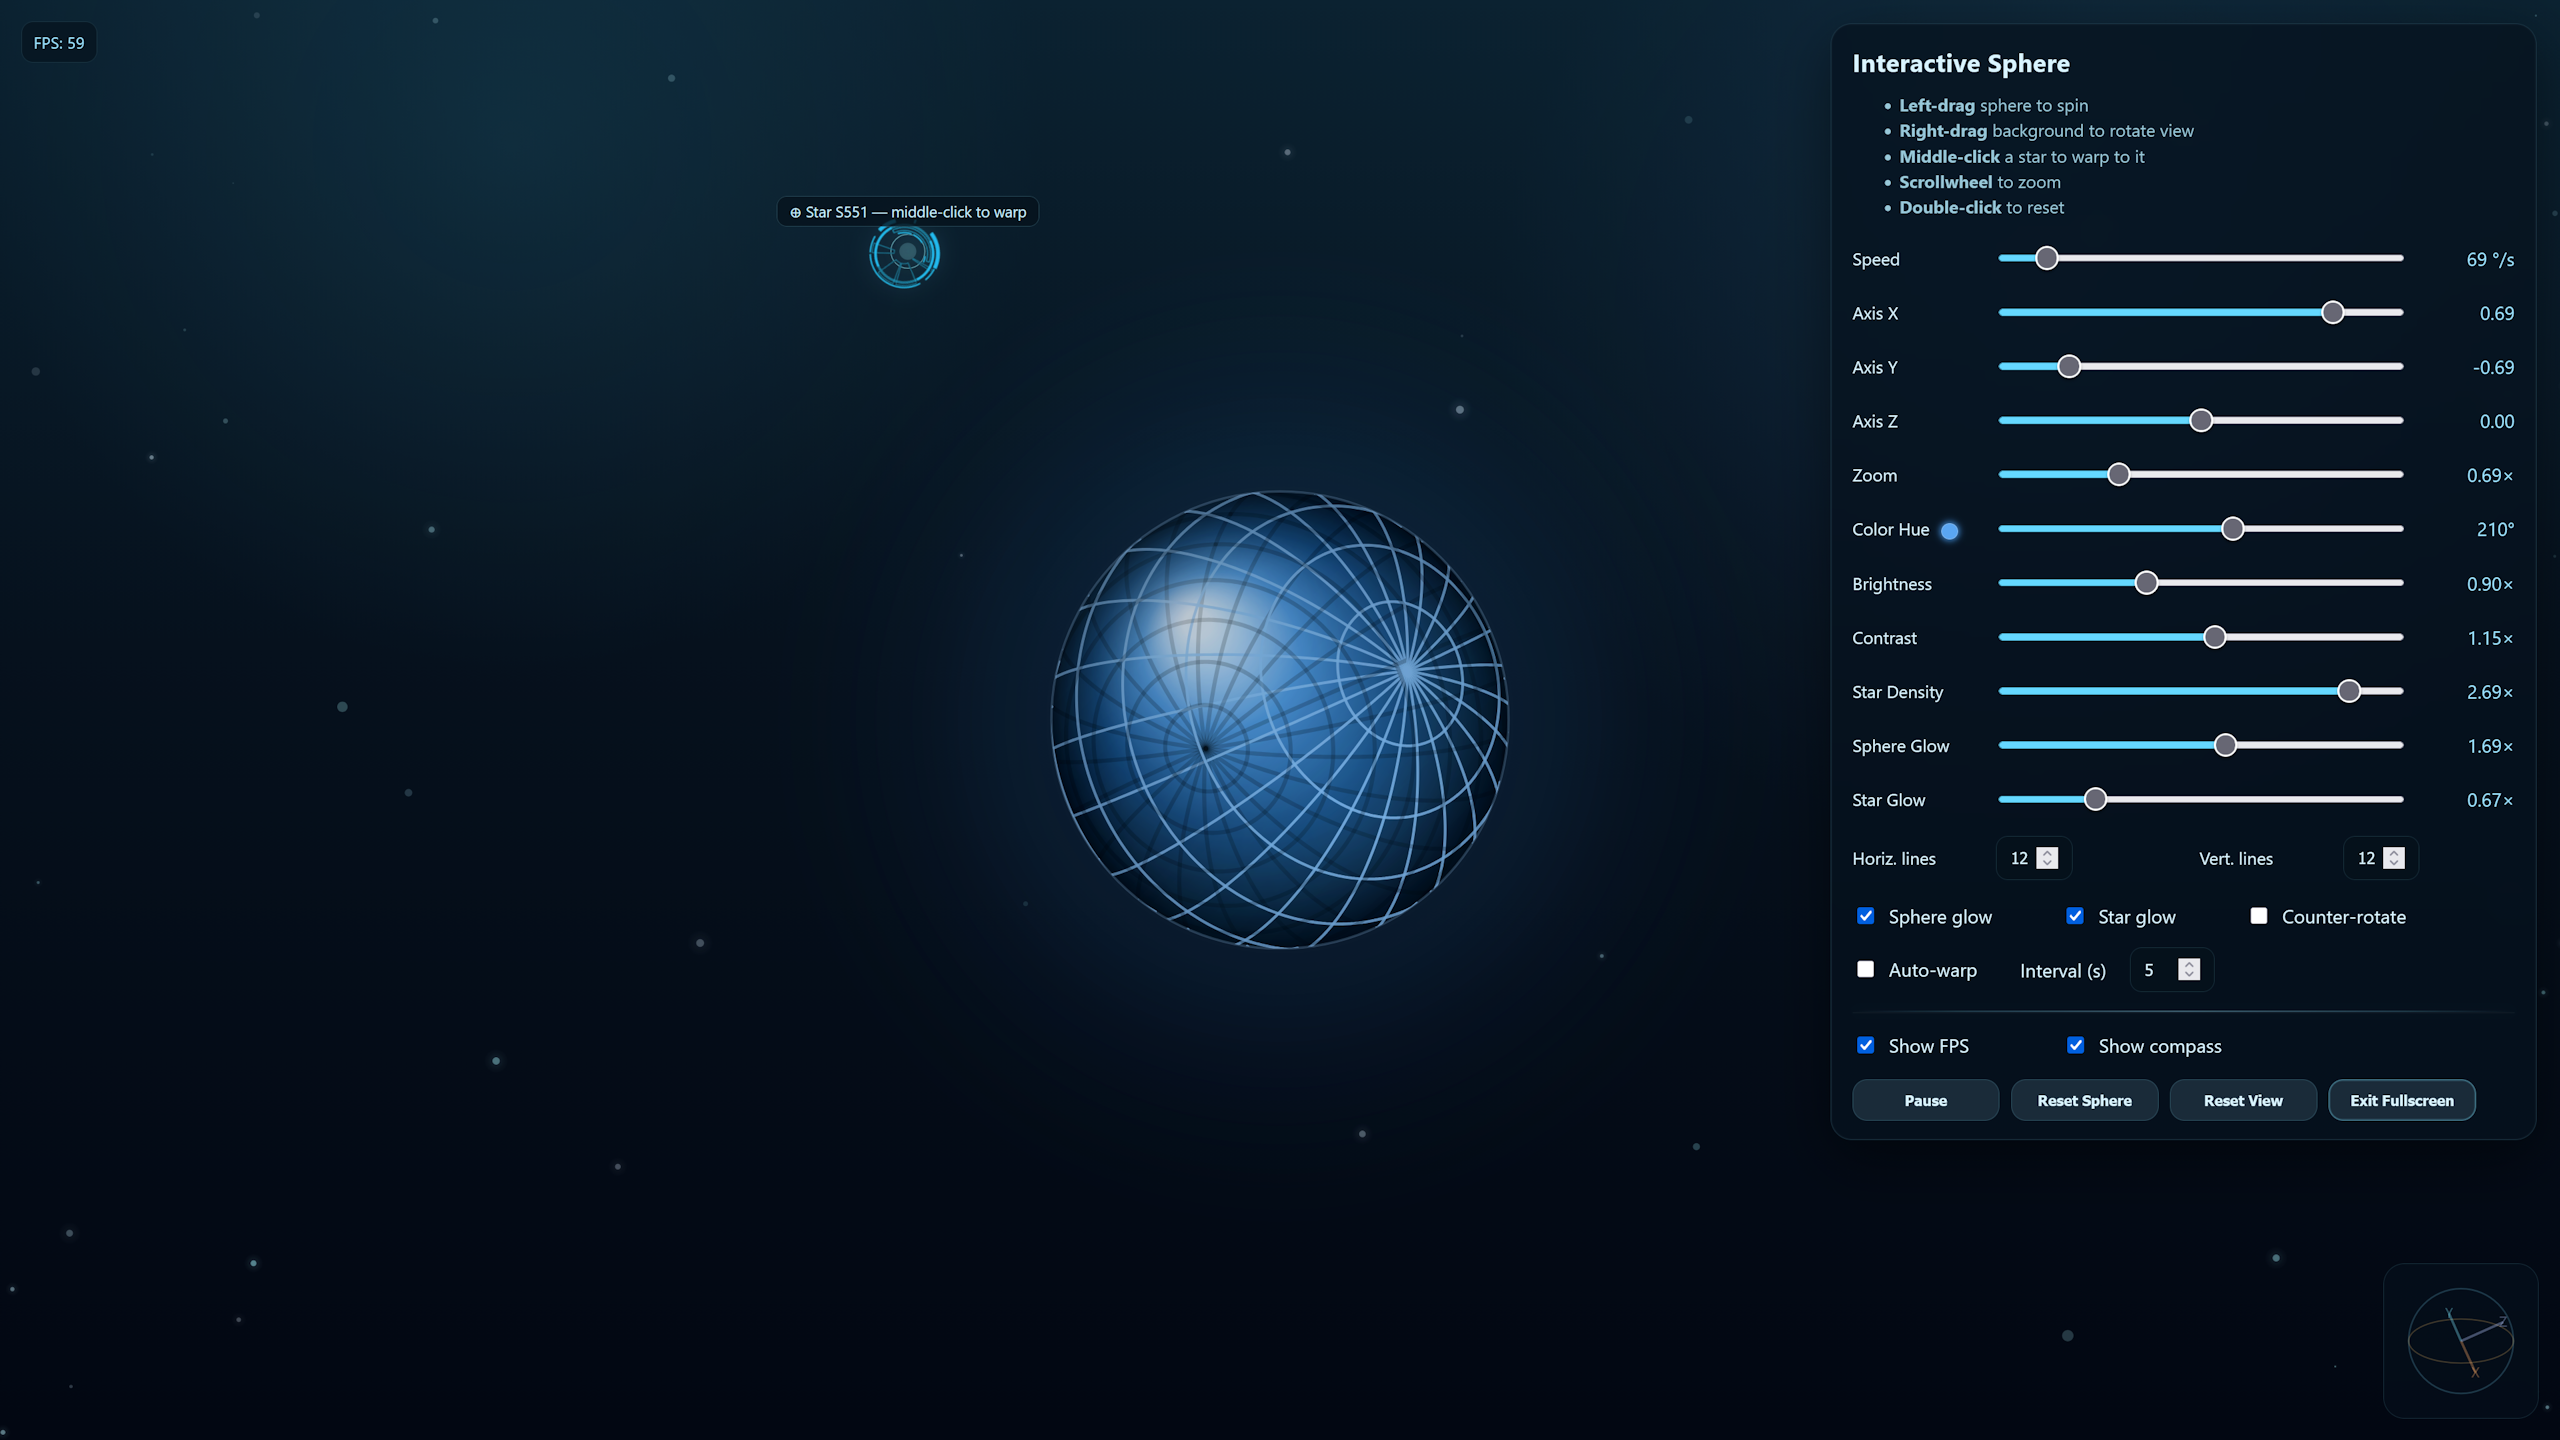
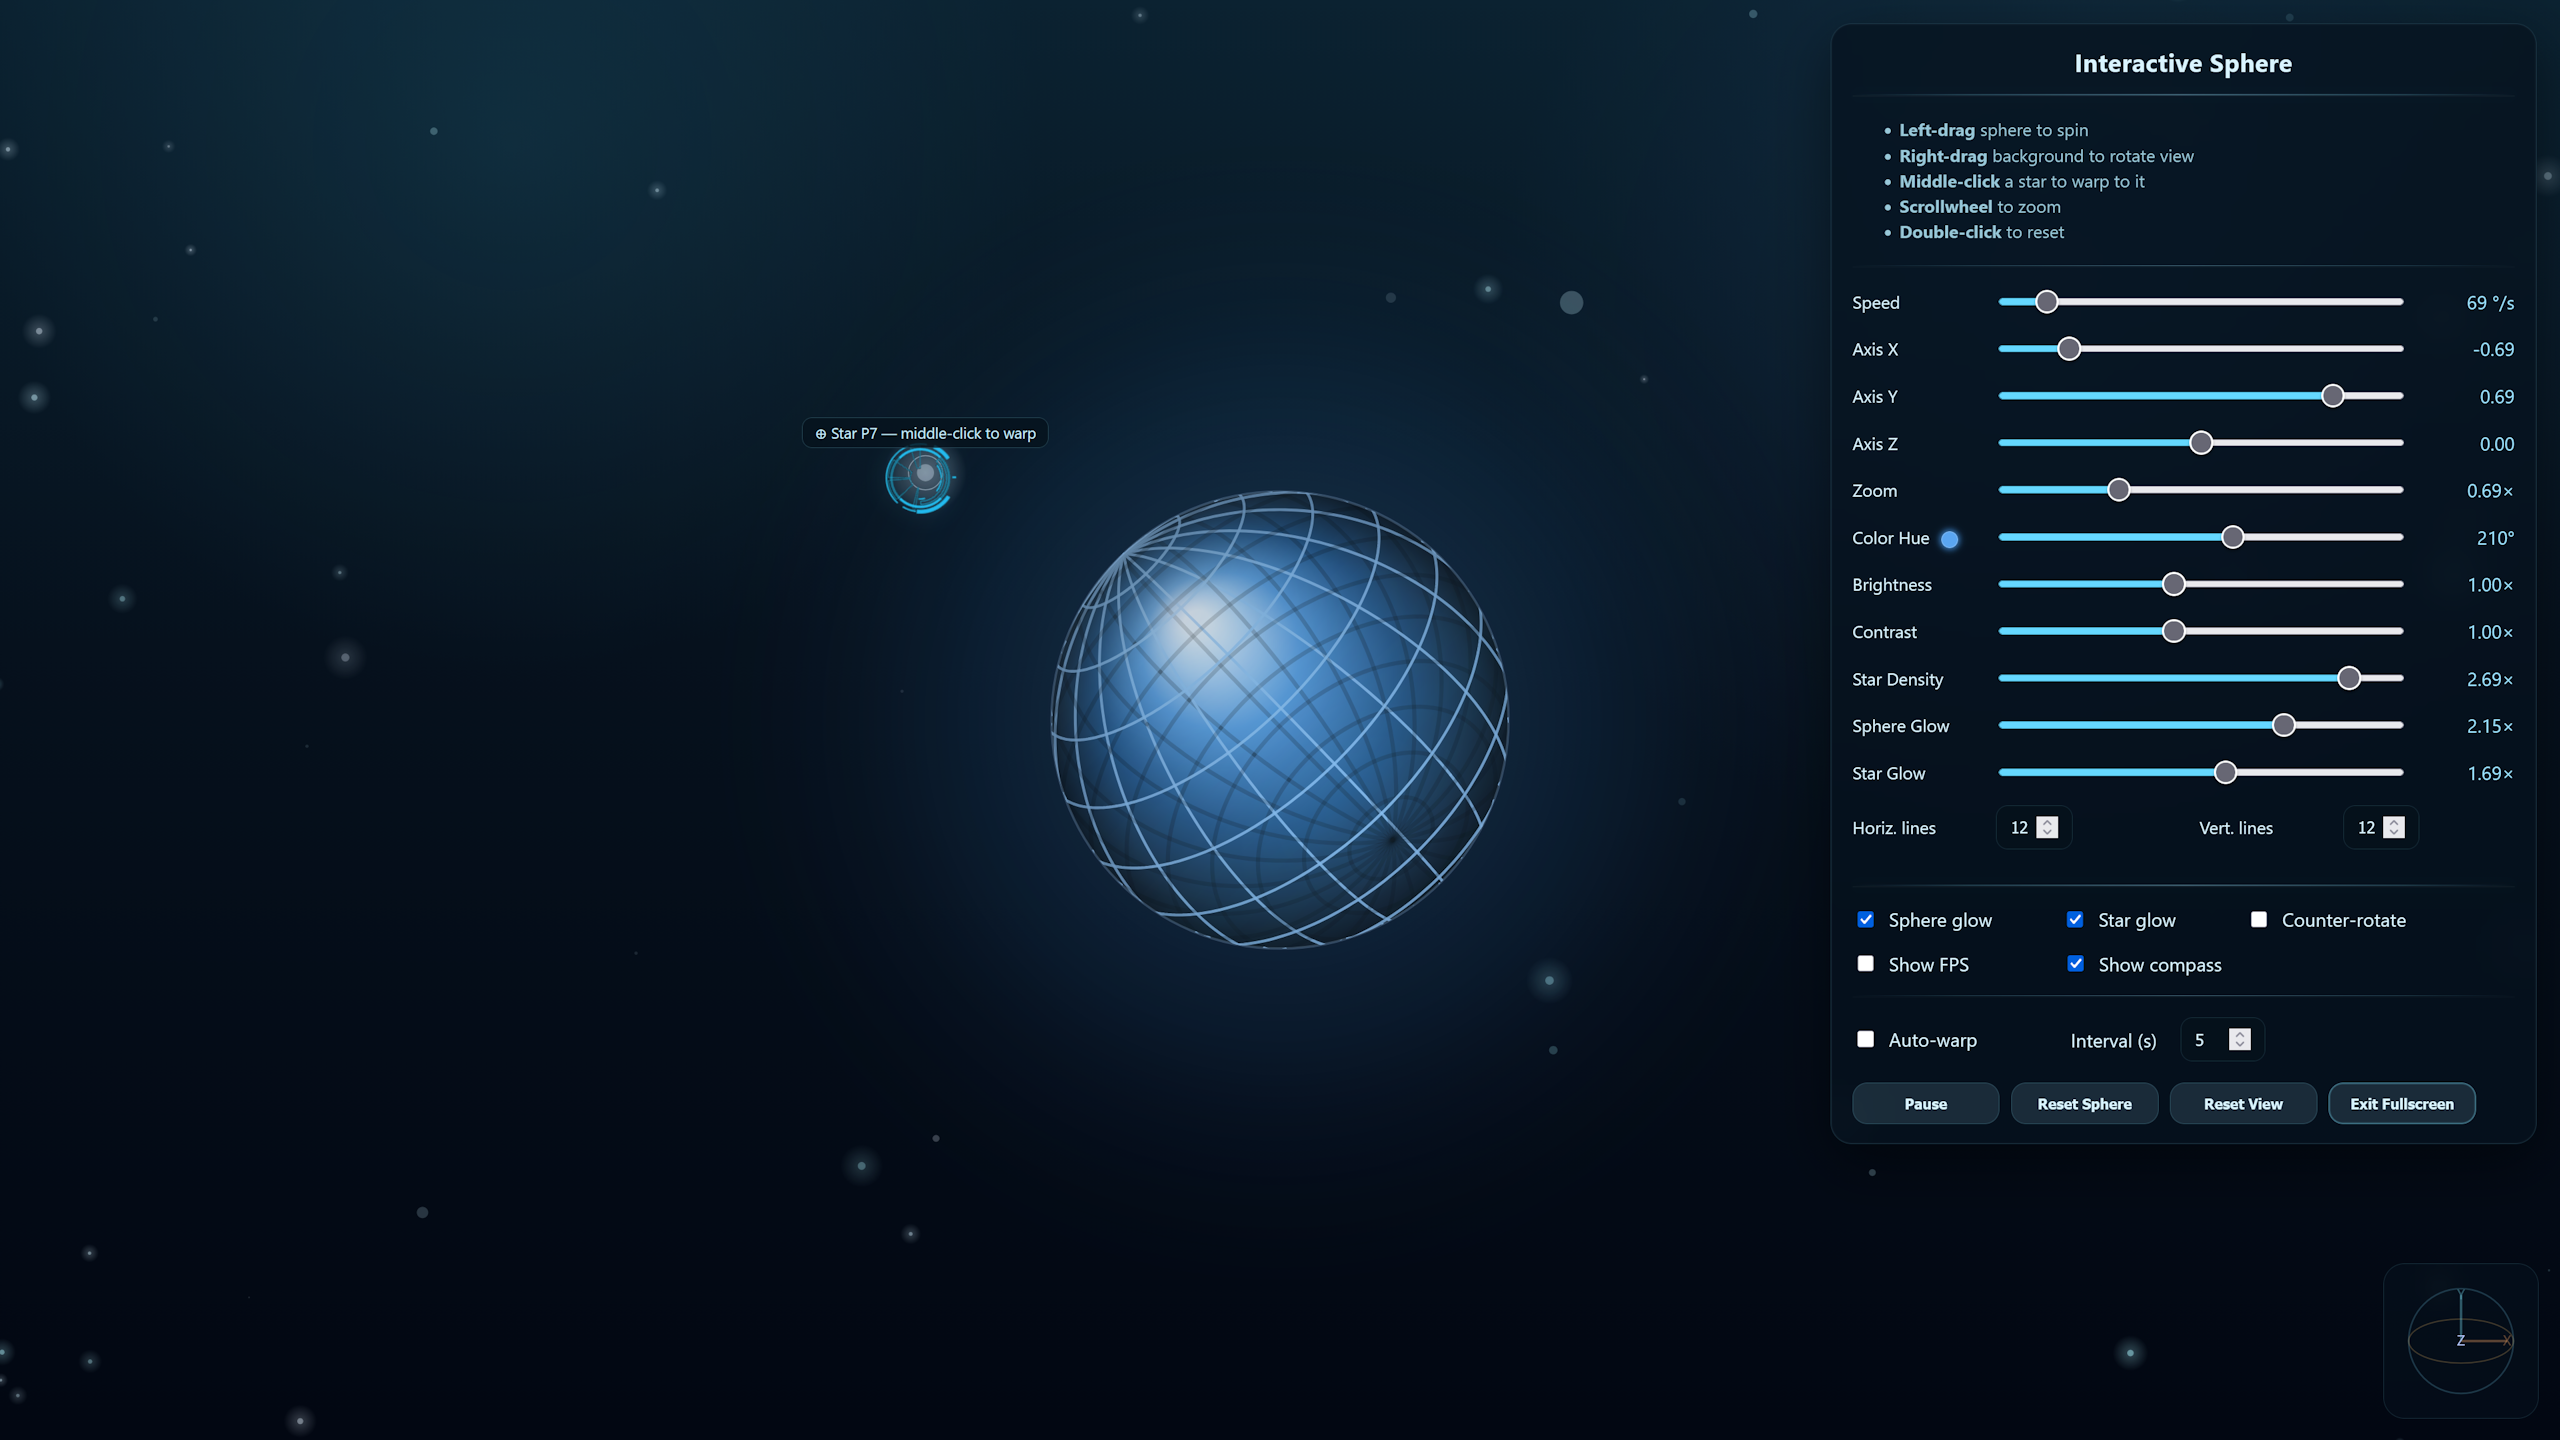
update ui

diff --git a/index.html b/index.html
@@ -19,7 +19,10 @@
         </div>
 
         <aside class="overlay visible" id="overlay">
-          <h1>Interactive Sphere</h1>
+          <h1 style="text-align: center;">Interactive Sphere</h1>
+
+          <hr>
+
           <ul class="desc">
             <li><strong>Left-drag</strong> sphere to spin</li>
             <li><strong>Right-drag</strong> background to rotate view</li>
@@ -27,6 +30,8 @@
             <li><strong>Scrollwheel</strong> to zoom</li>
             <li><strong>Double-click</strong> to reset</li>
           </ul>
+
+          <hr>
 
           <div class="control control-inline">
             <label for="speed">Speed</label>
@@ -106,6 +111,8 @@
             </div>
           </div>
 
+          <hr>
+
           <div class="control checkbox-row">
             <label class="checkbox">
               <input type="checkbox" id="showGlow" checked />
@@ -121,13 +128,27 @@
             </label>
           </div>
 
+
+          <div class="control checkbox-row">
+            <label class="checkbox">
+              <input type="checkbox" id="showFps" />
+              <span>Show FPS</span>
+            </label>
+            <label class="checkbox" style="margin-left: 75px !important;">
+              <input type="checkbox" id="showCompass" checked />
+              <span>Show compass</span>
+            </label>
+          </div>
+
+          <hr>
+
           <div class="control checkbox-row">
             <label class="checkbox">
               <input type="checkbox" id="autoWarp" />
               <span>Auto-warp</span>
             </label>
 
-            <label class="checkbox" style="margin-left: 32px !important;">
+            <label class="checkbox" style="margin-left: 75px !important;">
               <span>Interval (s)</span>
               <input
                 id="autoWarpInterval"
@@ -138,19 +159,6 @@
                 step="1"
                 style="width: 72px; margin-left: 10px;"
               />
-            </label>
-          </div>
-
-          <hr>
-
-          <div class="control checkbox-row">
-            <label class="checkbox">
-              <input type="checkbox" id="showFps" />
-              <span>Show FPS</span>
-            </label>
-            <label class="checkbox" style="margin-left: 75px !important;">
-              <input type="checkbox" id="showCompass" checked />
-              <span>Show compass</span>
             </label>
           </div>
 

diff --git a/css/style.css b/css/style.css
@@ -180,7 +180,7 @@ body {
   grid-template-columns: 110px 1fr 84px;
   align-items: center;
   gap: 12px;
-  min-height: 30px;
+  min-height: 24px;
 }
 
 .control-inline label {
